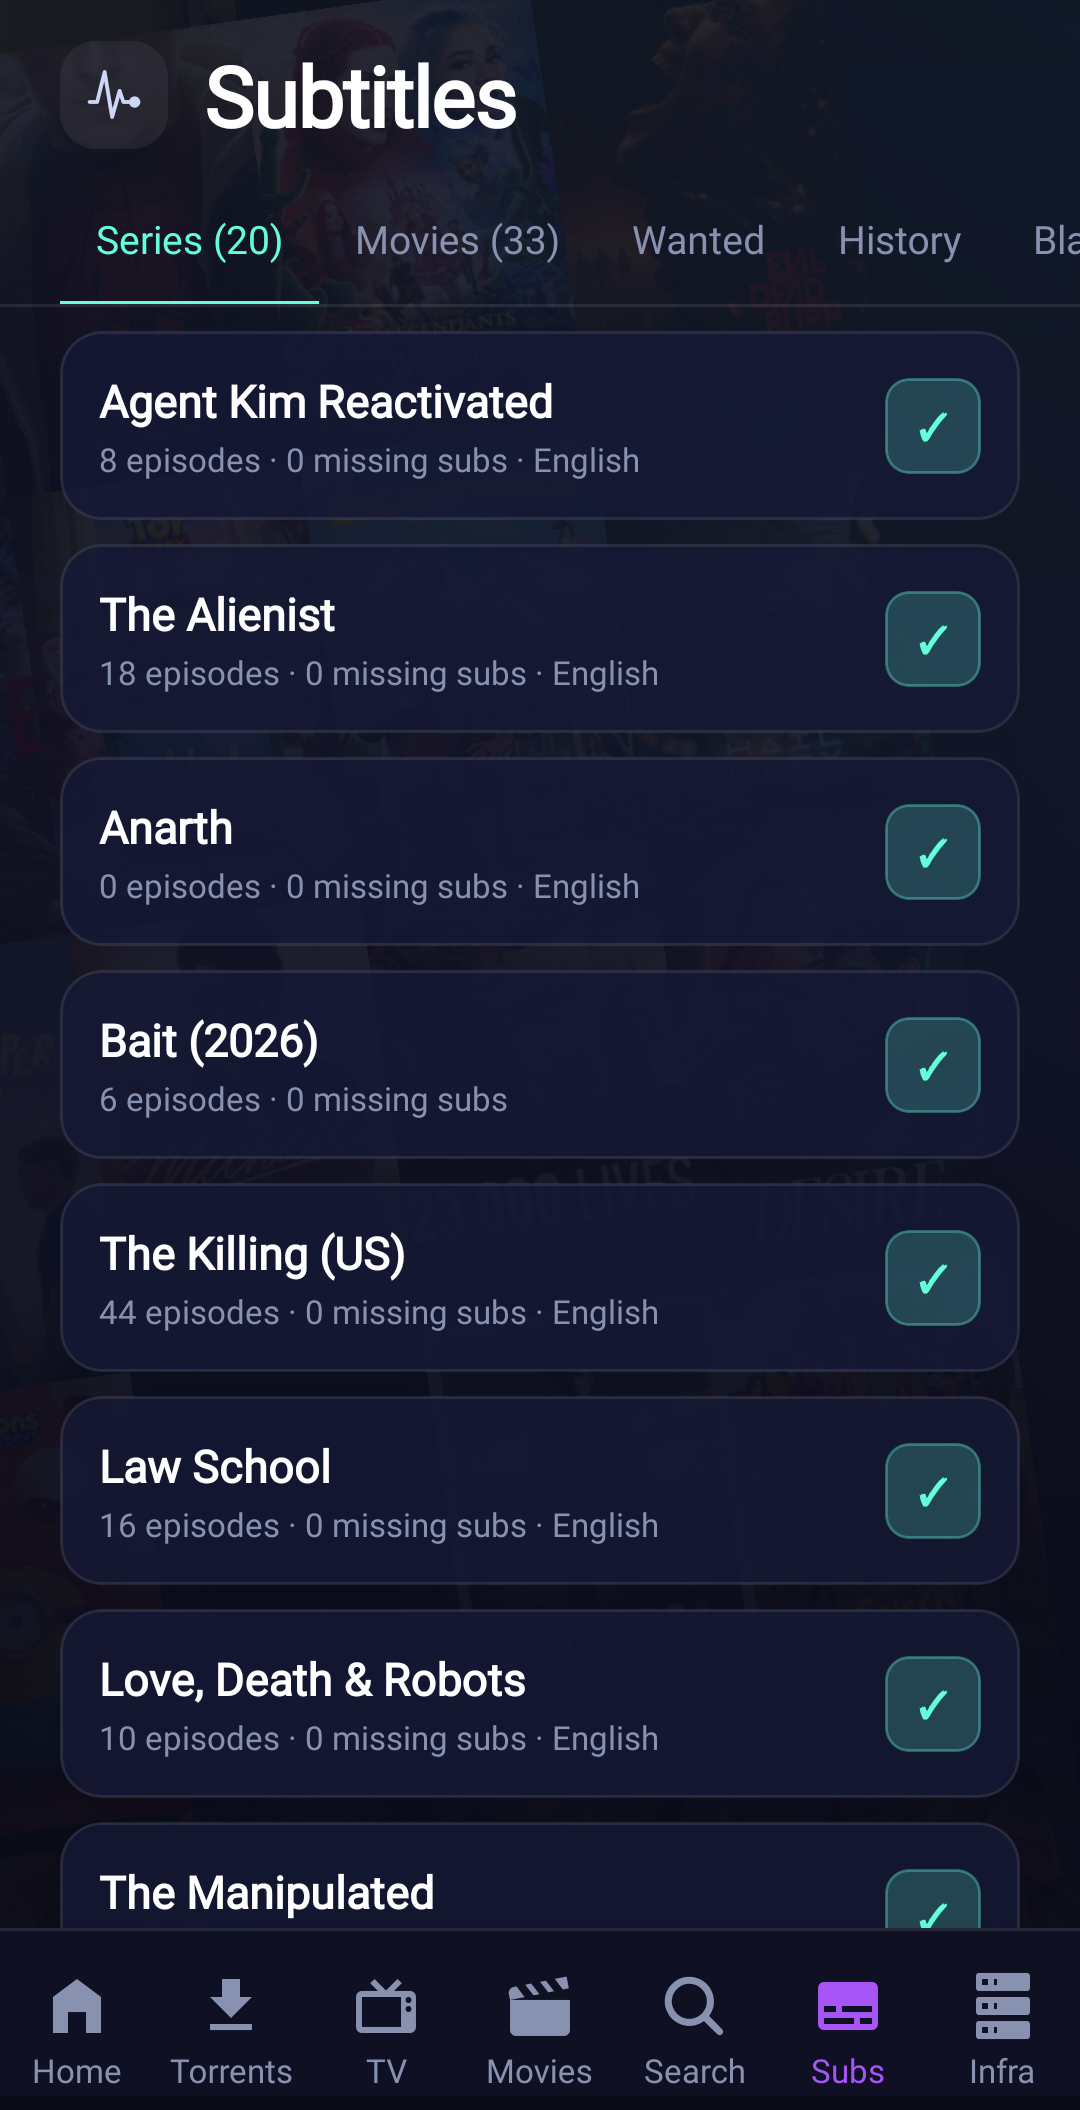
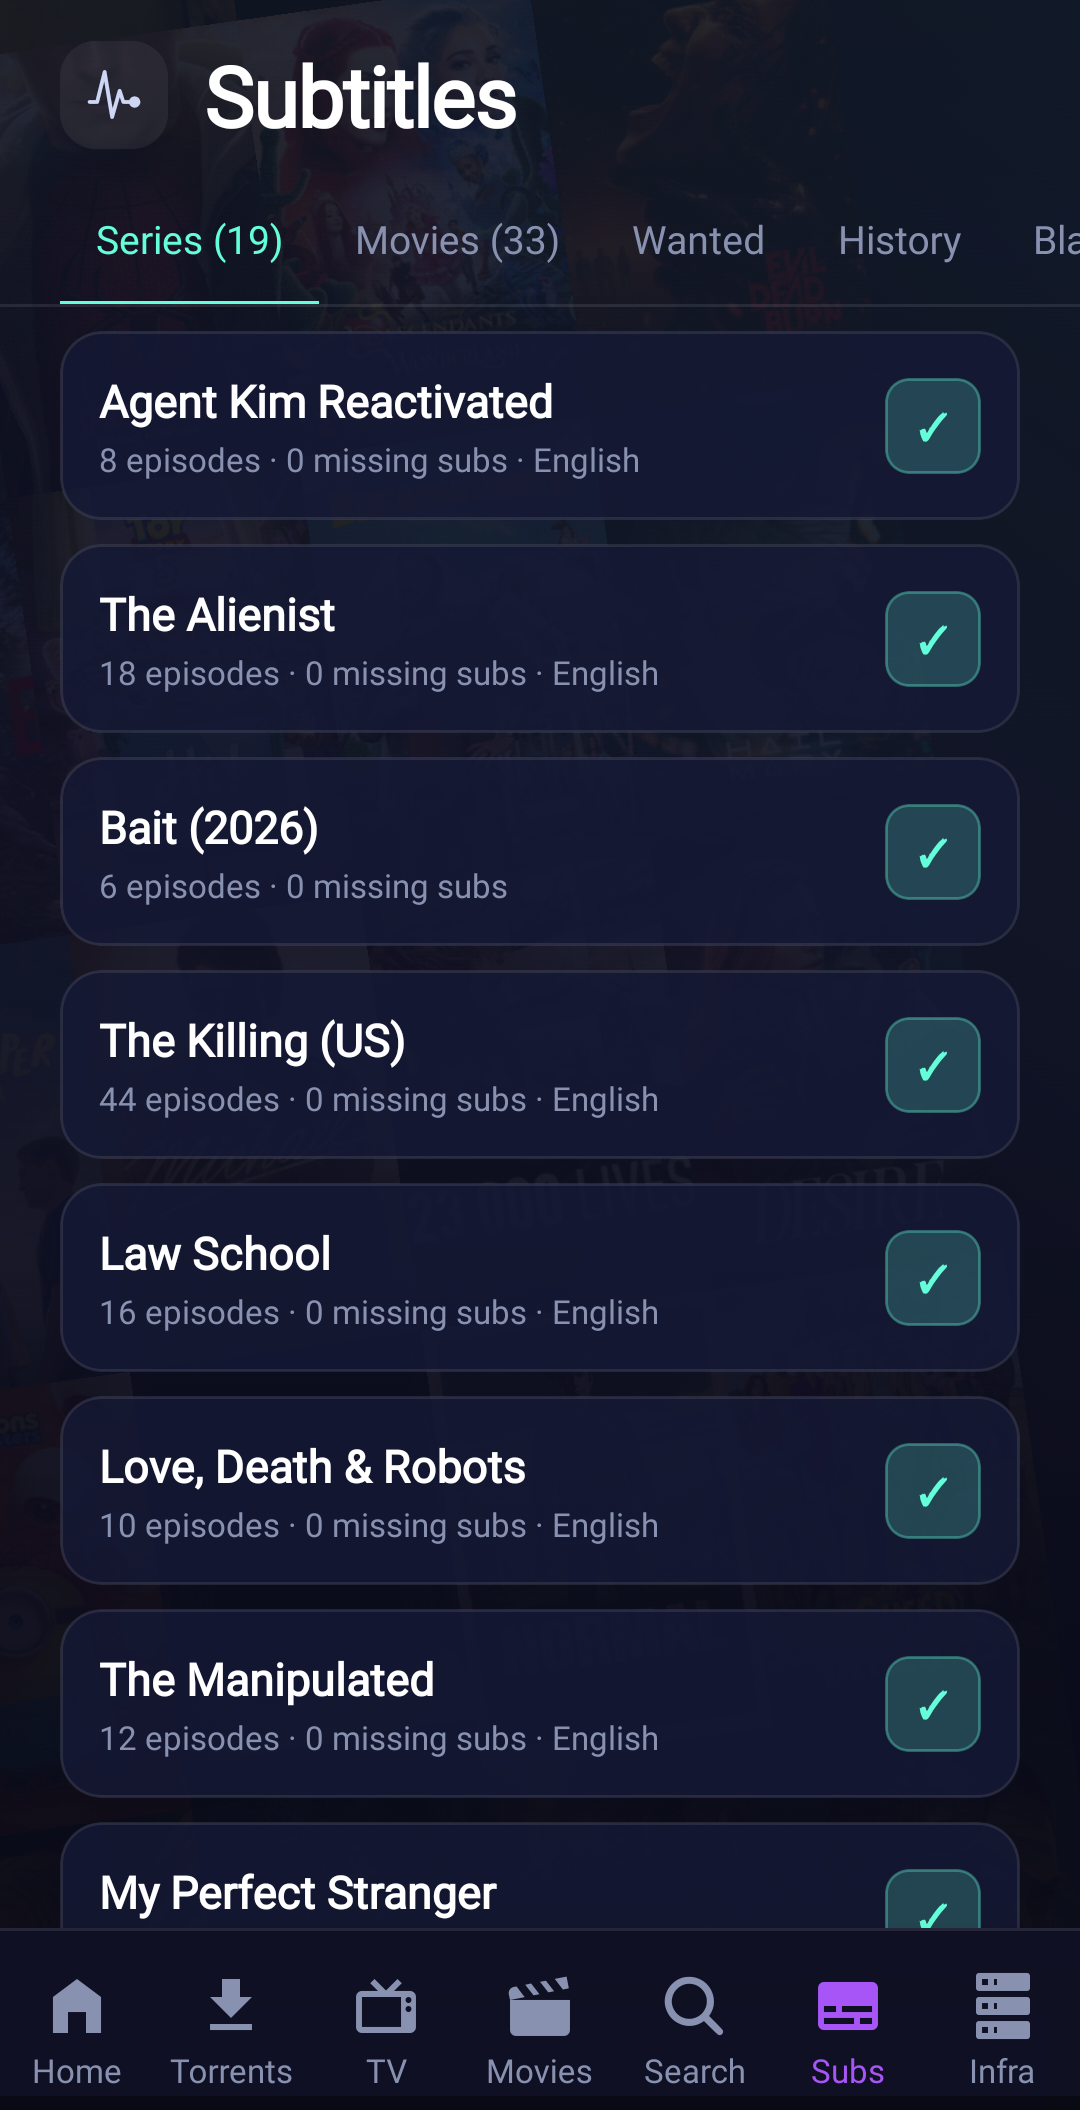
feat(detail): emby play button chip, refreshed screenshots

diff --git a/src/services/radarr/screens/MovieDetailScreen.tsx b/src/services/radarr/screens/MovieDetailScreen.tsx
@@ -326,11 +326,19 @@ export function MovieDetailScreen() {
 
       <View style={styles.actionBar}>
         {movie.hasFile && embyConfig && (
-          <Pressable style={styles.actionBtn} onPress={async () => {
+          <Pressable style={[styles.actionBtn, styles.actionBtnEmby]} onPress={async () => {
             const err = await openInEmby('Movie', { tmdbId: movie.tmdbId, imdbId: movie.imdbId });
             if (err) showToast(err, 'error');
           }}>
-            <MaterialCommunityIcons name="play" size={20} color={colors.emby} />
+            <View style={{ flexDirection: 'row', alignItems: 'center', gap: 4 }}>
+              <MaterialCommunityIcons name="play-circle" size={18} color={colors.emby} />
+              <Text
+                style={{ fontSize: 15, lineHeight: 18, color: '#fff', fontWeight: '800', letterSpacing: 0.3, includeFontPadding: false, marginTop: -2 }}
+                numberOfLines={1}
+              >
+                emby
+              </Text>
+            </View>
           </Pressable>
         )}
         <Pressable style={[styles.actionBtn, styles.actionBtnPrimary]} onPress={() => {
@@ -442,6 +450,7 @@ const styles = StyleSheet.create({
   fileBarText: { ...typography.micro, color: colors.success },
   actionBar: { flexDirection: 'row', gap: spacing.sm, padding: spacing.md, paddingHorizontal: spacing.lg, borderTopWidth: 1, borderTopColor: colors.divider, backgroundColor: colors.surfaceElevated },
   actionBtn: { flex: 1, paddingVertical: spacing.md, borderRadius: radii.md, borderWidth: 1, borderColor: colors.divider, alignItems: 'center', justifyContent: 'center' },
+  actionBtnEmby: { backgroundColor: 'rgba(82,181,75,0.12)', borderColor: 'rgba(82,181,75,0.4)' },
   actionBtnPrimary: { backgroundColor: colors.primaryMuted, borderColor: colors.primaryBorder, flex: 2 },
   actionBtnText: { ...typography.bodyBold, color: colors.textMuted },
   actionBtnTextPrimary: { color: colors.primary },

diff --git a/src/services/sonarr/screens/SeriesDetailScreen.tsx b/src/services/sonarr/screens/SeriesDetailScreen.tsx
@@ -454,11 +454,19 @@ export function SeriesDetailScreen() {
 
       <View style={styles.actionBar}>
         {(series.statistics?.episodeFileCount ?? 0) > 0 && embyConfig && (
-          <Pressable style={styles.actionBtn} onPress={async () => {
+          <Pressable style={[styles.actionBtn, styles.actionBtnEmby]} onPress={async () => {
             const err = await openInEmby('Series', { tvdbId: series.tvdbId, imdbId: series.imdbId, tmdbId: series.tmdbId });
             if (err) showToast(err, 'error');
           }}>
-            <MaterialCommunityIcons name="play" size={20} color={colors.emby} />
+            <View style={{ flexDirection: 'row', alignItems: 'center', gap: 4 }}>
+              <MaterialCommunityIcons name="play-circle" size={18} color={colors.emby} />
+              <Text
+                style={{ fontSize: 15, lineHeight: 18, color: '#fff', fontWeight: '800', letterSpacing: 0.3, includeFontPadding: false, marginTop: -2 }}
+                numberOfLines={1}
+              >
+                emby
+              </Text>
+            </View>
           </Pressable>
         )}
         <Pressable style={[styles.actionBtn, styles.actionBtnPrimary]} onPress={handleSearchAll}>
@@ -539,6 +547,7 @@ const styles = StyleSheet.create({
   tabTextActive: { color: colors.primary },
   actionBar: { flexDirection: 'row', gap: spacing.sm, padding: spacing.md, paddingHorizontal: spacing.lg, borderTopWidth: 1, borderTopColor: colors.divider, backgroundColor: colors.surfaceElevated },
   actionBtn: { flex: 1, paddingVertical: spacing.md, borderRadius: radii.md, borderWidth: 1, borderColor: colors.divider, alignItems: 'center', justifyContent: 'center' },
+  actionBtnEmby: { backgroundColor: 'rgba(82,181,75,0.12)', borderColor: 'rgba(82,181,75,0.4)' },
   actionBtnPrimary: { backgroundColor: colors.primaryMuted, borderColor: colors.primaryBorder, flex: 2 },
   actionBtnText: { ...typography.bodyBold, color: colors.textMuted },
   actionBtnTextPrimary: { color: colors.primary },